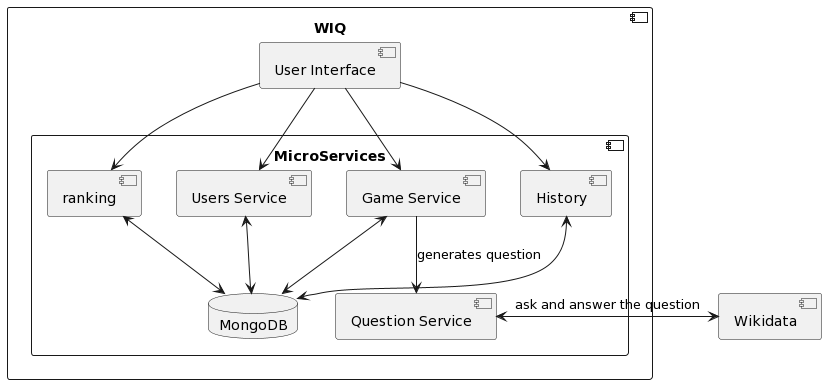
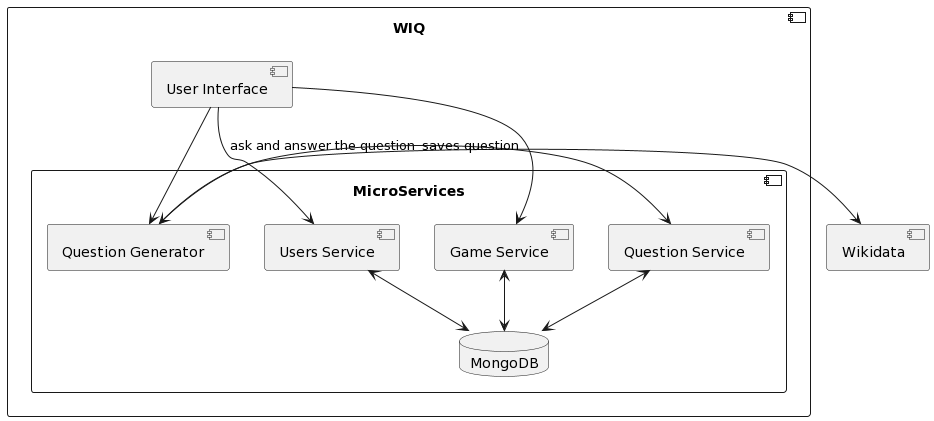
Updates

diff --git a/index.html b/index.html
@@ -4,7 +4,7 @@
 <meta charset="UTF-8">
 <meta http-equiv="X-UA-Compatible" content="IE=edge">
 <meta name="viewport" content="width=device-width, initial-scale=1.0">
-<meta name="generator" content="Asciidoctor 2.0.20">
+<meta name="generator" content="Asciidoctor 2.0.22">
 <title>Template</title>
 <link rel="stylesheet" href="https://fonts.googleapis.com/css?family=Open+Sans:300,300italic,400,400italic,600,600italic%7CNoto+Serif:400,400italic,700,700italic%7CDroid+Sans+Mono:400,700">
 <style>
@@ -140,7 +140,7 @@ p a>code:hover{color:rgba(0,0,0,.9)}
 #content::before{content:none}
 #header>h1:first-child{color:rgba(0,0,0,.85);margin-top:2.25rem;margin-bottom:0}
 #header>h1:first-child+#toc{margin-top:8px;border-top:1px solid #dddddf}
-#header>h1:only-child,body.toc2 #header>h1:nth-last-child(2){border-bottom:1px solid #dddddf;padding-bottom:8px}
+#header>h1:only-child{border-bottom:1px solid #dddddf;padding-bottom:8px}
 #header .details{border-bottom:1px solid #dddddf;line-height:1.45;padding-top:.25em;padding-bottom:.25em;padding-left:.25em;color:rgba(0,0,0,.6);display:flex;flex-flow:row wrap}
 #header .details span:first-child{margin-left:-.125em}
 #header .details span.email a{color:rgba(0,0,0,.85)}
@@ -162,6 +162,7 @@ p a>code:hover{color:rgba(0,0,0,.9)}
 #toctitle{color:#7a2518;font-size:1.2em}
 @media screen and (min-width:768px){#toctitle{font-size:1.375em}
 body.toc2{padding-left:15em;padding-right:0}
+body.toc2 #header>h1:nth-last-child(2){border-bottom:1px solid #dddddf;padding-bottom:8px}
 #toc.toc2{margin-top:0!important;background:#f8f8f7;position:fixed;width:15em;left:0;top:0;border-right:1px solid #e7e7e9;border-top-width:0!important;border-bottom-width:0!important;z-index:1000;padding:1.25em 1em;height:100%;overflow:auto}
 #toc.toc2 #toctitle{margin-top:0;margin-bottom:.8rem;font-size:1.2em}
 #toc.toc2>ul{font-size:.9em;margin-bottom:0}
@@ -327,7 +328,7 @@ a.image{text-decoration:none;display:inline-block}
 a.image object{pointer-events:none}
 sup.footnote,sup.footnoteref{font-size:.875em;position:static;vertical-align:super}
 sup.footnote a,sup.footnoteref a{text-decoration:none}
-sup.footnote a:active,sup.footnoteref a:active{text-decoration:underline}
+sup.footnote a:active,sup.footnoteref a:active,#footnotes .footnote a:first-of-type:active{text-decoration:underline}
 #footnotes{padding-top:.75em;padding-bottom:.75em;margin-bottom:.625em}
 #footnotes hr{width:20%;min-width:6.25em;margin:-.25em 0 .75em;border-width:1px 0 0}
 #footnotes .footnote{padding:0 .375em 0 .225em;line-height:1.3334;font-size:.875em;margin-left:1.2em;margin-bottom:.2em}
@@ -481,11 +482,10 @@ body.book #toc,body.book #preamble,body.book h1.sect0,body.book .sect1>h2{page-b
 <ul class="sectlevel2">
 <li><a href="#_login">6.1. Login</a></li>
 <li><a href="#_game">6.2. Game</a></li>
-<li><a href="#_ranking">6.3. Ranking</a></li>
-<li><a href="#_history">6.4. History</a></li>
+<li><a href="#_history">6.3. History</a></li>
 </ul>
 </li>
-<li><a href="#section-deployment-view">7. Deployment View</a>
+<li><a href="#_deployment_view">7. Deployment View</a>
 <ul class="sectlevel2">
 <li><a href="#_infrastructure_level_1">7.1. Infrastructure Level 1</a></li>
 <li><a href="#_motivation_6">7.2. Motivation:</a></li>
@@ -493,26 +493,35 @@ body.book #toc,body.book #preamble,body.book h1.sect0,body.book .sect1>h2{page-b
 <li><a href="#_mapping_of_building_blocks_to_infrastructure">7.4. Mapping of Building Blocks to Infrastructure::</a></li>
 </ul>
 </li>
-<li><a href="#section-concepts">8. Cross-cutting Concepts</a>
+<li><a href="#section-concepts">8. First Designs</a>
 <ul class="sectlevel2">
-<li><a href="#_domain_model">8.1. <em>Domain Model</em></a></li>
-<li><a href="#_security">8.2. <em>Security</em></a></li>
-<li><a href="#_privacy">8.3. <em>Privacy</em></a></li>
+<li><a href="#_home_page">8.1. Home Page</a></li>
+<li><a href="#_game_page">8.2. Game page</a></li>
 </ul>
 </li>
-<li><a href="#section-design-decisions">9. Architecture Decisions</a></li>
-<li><a href="#section-quality-scenarios">10. Quality Requirements</a>
+<li><a href="#_cross_cutting_concepts">9. Cross-cutting Concepts</a>
 <ul class="sectlevel2">
-<li><a href="#_quality_scenarios">10.1. Quality Scenarios</a></li>
+<li><a href="#_maintainability">9.1. Maintainability:</a></li>
+<li><a href="#_usability">9.2. Usability:</a></li>
+<li><a href="#_security">9.3. Security:</a></li>
+<li><a href="#_testing">9.4. Testing:</a></li>
+<li><a href="#_expansions">9.5. Expansions:</a></li>
+<li><a href="#_data_persistence_and_availability">9.6. Data persistence and availability:</a></li>
 </ul>
 </li>
-<li><a href="#section-technical-risks">11. Risks and Technical Debts</a>
+<li><a href="#section-design-decisions">10. Architecture Decisions</a></li>
+<li><a href="#section-quality-scenarios">11. Quality Requirements</a>
 <ul class="sectlevel2">
-<li><a href="#_risks">11.1. Risks</a></li>
-<li><a href="#_technical_debts">11.2. Technical debts</a></li>
+<li><a href="#_quality_scenarios">11.1. Quality Scenarios</a></li>
 </ul>
 </li>
-<li><a href="#section-glossary">12. Glossary</a></li>
+<li><a href="#section-technical-risks">12. Risks and Technical Debts</a>
+<ul class="sectlevel2">
+<li><a href="#_risks">12.1. Risks</a></li>
+<li><a href="#_technical_debts">12.2. Technical debts</a></li>
+</ul>
+</li>
+<li><a href="#section-glossary">13. Glossary</a></li>
 </ul>
 </div>
 </div>
@@ -1172,24 +1181,20 @@ The main constraints are developing the game as a web app and using Wikidata to 
 <td class="tableblock halign-left valign-top"><p class="tableblock">Game screen where the user can play the game.</p></td>
 </tr>
 <tr>
-<td class="tableblock halign-left valign-top"><p class="tableblock"><strong><em>Ranking</em></strong></p></td>
-<td class="tableblock halign-left valign-top"><p class="tableblock">It contains the best scores recorded in the game, including the user&#8217;s highest score and the scores of other users belonging to their group.</p></td>
-</tr>
-<tr>
-<td class="tableblock halign-left valign-top"><p class="tableblock"><strong><em>History</em></strong></p></td>
+<td class="tableblock halign-left valign-top"><p class="tableblock"><strong><em>Game Service</em></strong></p></td>
 <td class="tableblock halign-left valign-top"><p class="tableblock">Contains all user participations with the number of games played, correct/incorrect answers, and times.</p></td>
-</tr>
-<tr>
-<td class="tableblock halign-left valign-top"><p class="tableblock"><strong><em>About</em></strong></p></td>
-<td class="tableblock halign-left valign-top"><p class="tableblock">Contains important information about the project, like the development method, the developers and how to contact them.</p></td>
 </tr>
 <tr>
 <td class="tableblock halign-left valign-top"><p class="tableblock"><strong><em>Users Service</em></strong></p></td>
 <td class="tableblock halign-left valign-top"><p class="tableblock">Allows the client to create a new account for the application, log in and log out.</p></td>
 </tr>
 <tr>
-<td class="tableblock halign-left valign-top"><p class="tableblock"><strong><em>Question service</em></strong></p></td>
+<td class="tableblock halign-left valign-top"><p class="tableblock"><strong><em>Question Generator Service</em></strong></p></td>
 <td class="tableblock halign-left valign-top"><p class="tableblock">Allows to ask him questions and receive the answers of them.</p></td>
+</tr>
+<tr>
+<td class="tableblock halign-left valign-top"><p class="tableblock"><strong><em>Question Service</em></strong></p></td>
+<td class="tableblock halign-left valign-top"><p class="tableblock">Saves the questions.</p></td>
 </tr>
 </tbody>
 </table>
@@ -1215,7 +1220,7 @@ In case the login isn&#8217;t succesfully, a warning message is shown.</p>
 </div>
 <div class="imageblock">
 <div class="content">
-<img src="./images/sequencediagram-login.png" alt="sequencediagram login" width="509" height="508">
+<img src="./images/sequencediagram-login.png" alt="sequencediagram login" width="554" height="495">
 </div>
 </div>
 </div>
@@ -1226,36 +1231,12 @@ In case the login isn&#8217;t succesfully, a warning message is shown.</p>
 </div>
 <div class="imageblock">
 <div class="content">
-<img src="./images/sequencediagram-game.png" alt="sequencediagram game" width="632" height="612">
+<img src="./images/06_game.png" alt="Game">
 </div>
 </div>
 </div>
 <div class="sect2">
-<h3 id="_ranking">6.3. Ranking</h3>
-<div class="paragraph">
-<p>In this view, the user can watch different rankings:</p>
-</div>
-<div class="ulist">
-<ul>
-<li>
-<p>Ordered by accuracy percentage</p>
-</li>
-<li>
-<p>Ordered by number of questions answered correctly</p>
-</li>
-<li>
-<p>Ordered by quantity of game rounds</p>
-</li>
-</ul>
-</div>
-<div class="imageblock">
-<div class="content">
-<img src="./images/sequencediagram-ranking.png" alt="sequencediagram ranking" width="408" height="305">
-</div>
-</div>
-</div>
-<div class="sect2">
-<h3 id="_history">6.4. History</h3>
+<h3 id="_history">6.3. History</h3>
 <div class="paragraph">
 <p>In this view, the user can watch this options about his past games:</p>
 </div>
@@ -1274,7 +1255,7 @@ In case the login isn&#8217;t succesfully, a warning message is shown.</p>
 </div>
 <div class="imageblock">
 <div class="content">
-<img src="./images/sequencediagram-history.png" alt="sequencediagram history" width="362" height="305">
+<img src="./images/sequencediagram-history.png" alt="sequencediagram history" width="390" height="297">
 </div>
 </div>
 <div style="page-break-after: always;"></div>
@@ -1282,13 +1263,13 @@ In case the login isn&#8217;t succesfully, a warning message is shown.</p>
 </div>
 </div>
 <div class="sect1">
-<h2 id="section-deployment-view">7. Deployment View</h2>
+<h2 id="_deployment_view">7. Deployment View</h2>
 <div class="sectionbody">
 <div class="sect2">
 <h3 id="_infrastructure_level_1">7.1. Infrastructure Level 1</h3>
 <div class="imageblock text-center">
 <div class="content">
-<a class="image" href=""Diag_Comp.jpg"><img src="./images/Diag_Comp.jpg" alt="Diag Comp"></a>
+<img src="./images/deployment_diagram.svg" alt="deployment diagram">
 </div>
 <div class="title">Figure 1. Deployment Diagram</div>
 </div>
@@ -1296,13 +1277,14 @@ In case the login isn&#8217;t succesfully, a warning message is shown.</p>
 <div class="sect2">
 <h3 id="_motivation_6">7.2. Motivation:</h3>
 <div class="paragraph">
-<p>The system is based in microservices architecture with three independent services, each responsible for a specific aspect of the functionality. One service is the Graphic interface, this service handles the presentation layer of a web application. Another service is tasked with managing user-related functionalities. MongoDB, a NoSQL database, is used to store and manage user data efficiently. The third service utilizes Wikidata, a free open base, to automatically generate questions.</p>
+<p>The system is based on a microservices architecture with six independent services, each responsible for a specific aspect of functionality. One service is the graphical interface (WebApp), which is responsible for the presentation layer of a web application. The user service is responsible for managing user-related functionalities, while the auth service is responsible for authenticating users. The question generation service uses Wikidata, a free and open database, to generate questions automatically. Finally, the question service allows to save and retrieve information from the generated questions and the game service does the same for game-related data and statistics. MongoDB, a NoSQL database, is used to store the information.</p>
 </div>
 </div>
 <div class="sect2">
 <h3 id="_quality_andor_performance_features">7.3. Quality and/or Performance Features::</h3>
 <div class="paragraph">
-<p>The main reason we have chosen a microservices architecture is to achieve a fast and efficient application.. The availability and efficiency of the application will be affected by Wikidata&#8217;s availability, but just in the question generation moment.</p>
+<p>The main reason we have chosen a microservices architecture is to achieve a fast and efficient application, while allowing changes to be made to certain parts of the application without the need to bring it to a complete halt. The application is deployed in an Azure virtual machine and each of the application components is in a separate container thanks to the use of Docker.
+The availability and efficiency of the application will be affected by the availability of Wikidata, but only at the time of question generation.</p>
 </div>
 </div>
 <div class="sect2">
@@ -1332,7 +1314,7 @@ In case the login isn&#8217;t succesfully, a warning message is shown.</p>
 <td class="tableblock halign-left valign-top"><p class="tableblock"> <em>The API that comunicates the rest of the microservices with the graphical interface.</em></p></td>
 </tr>
 <tr>
-<td class="tableblock halign-left valign-top"><p class="tableblock"><em>Question_Generator</em></p></td>
+<td class="tableblock halign-left valign-top"><p class="tableblock"><em>Question generation service</em></p></td>
 <td class="tableblock halign-left valign-top"><p class="tableblock"> <em>The microservice responsible for generating questions through Wikidata.</em></p></td>
 </tr>
 <tr>
@@ -1340,8 +1322,20 @@ In case the login isn&#8217;t succesfully, a warning message is shown.</p>
 <td class="tableblock halign-left valign-top"><p class="tableblock"> <em>The Wikidata API that allows us to access its information.</em></p></td>
 </tr>
 <tr>
-<td class="tableblock halign-left valign-top"><p class="tableblock"><em>Users</em></p></td>
+<td class="tableblock halign-left valign-top"><p class="tableblock"><em>Question service</em></p></td>
+<td class="tableblock halign-left valign-top"><p class="tableblock"><em>The microservice responsible for saving and getting information about the questions.</em></p></td>
+</tr>
+<tr>
+<td class="tableblock halign-left valign-top"><p class="tableblock"><em>Game service</em></p></td>
+<td class="tableblock halign-left valign-top"><p class="tableblock"><em>The microservice responsible for saving and getting information about the games.</em></p></td>
+</tr>
+<tr>
+<td class="tableblock halign-left valign-top"><p class="tableblock"><em>User service</em></p></td>
 <td class="tableblock halign-left valign-top"><p class="tableblock"> <em>The microservice responsible for managing users.</em></p></td>
+</tr>
+<tr>
+<td class="tableblock halign-left valign-top"><p class="tableblock"><em>Auth service</em></p></td>
+<td class="tableblock halign-left valign-top"><p class="tableblock"> <em>The microservice responsible for managing the authentication of the users.</em></p></td>
 </tr>
 <tr>
 <td class="tableblock halign-left valign-top"><p class="tableblock"><em>MongoDB</em></p></td>
@@ -1354,31 +1348,76 @@ In case the login isn&#8217;t succesfully, a warning message is shown.</p>
 </div>
 </div>
 <div class="sect1">
-<h2 id="section-concepts">8. Cross-cutting Concepts</h2>
+<h2 id="section-concepts">8. First Designs</h2>
 <div class="sectionbody">
 <div class="sect2">
-<h3 id="_domain_model">8.1. <em>Domain Model</em></h3>
+<h3 id="_home_page">8.1. Home Page</h3>
+<div class="imageblock">
+<div class="content">
+<img src="./images/HomeView.png" alt="Home Menu View">
+</div>
+</div>
+<hr>
+</div>
+<div class="sect2">
+<h3 id="_game_page">8.2. Game page</h3>
+<div class="imageblock">
+<div class="content">
+<img src="./images/GameView.png" alt="Game View">
+</div>
+</div>
+<hr>
+</div>
+</div>
+</div>
+<div class="sect1">
+<h2 id="_cross_cutting_concepts">9. Cross-cutting Concepts</h2>
+<div class="sectionbody">
+<div class="sect2">
+<h3 id="_maintainability">9.1. Maintainability:</h3>
 <div class="paragraph">
-<p><em>TBD</em></p>
+<p>We designed the application in a modular way to facilitate its maintenance and task division.
+We separated functions for reuse in different parts of the code, such as React components.</p>
 </div>
 </div>
 <div class="sect2">
-<h3 id="_security">8.2. <em>Security</em></h3>
+<h3 id="_usability">9.2. Usability:</h3>
 <div class="paragraph">
-<p><em>The communication between the application&#8217;s APIs will be through the secure mode of HTTP.</em></p>
+<p>We researched user needs to design a simple and intuitive interface.
+We employed a user-centered approach and followed recommended usability guidelines such as font size, interface colors, etc.</p>
 </div>
 </div>
 <div class="sect2">
-<h3 id="_privacy">8.3. <em>Privacy</em></h3>
+<h3 id="_security">9.3. Security:</h3>
 <div class="paragraph">
-<p><em>The user&#8217;s data will be stored in a MongoDb database. That implies that the information is stored securely.</em></p>
+<p>We store only essential information with user passwords encrypted for security.
+Unregistered users will not be able to access others' information.</p>
+</div>
+</div>
+<div class="sect2">
+<h3 id="_testing">9.4. Testing:</h3>
+<div class="paragraph">
+<p>Usability and functionality tests are conducted to gather feedback and create the best possible product.</p>
+</div>
+</div>
+<div class="sect2">
+<h3 id="_expansions">9.5. Expansions:</h3>
+<div class="paragraph">
+<p>Various expansions to the application are proposed, such as a multiplayer version or adaptability to mobile devices.</p>
+</div>
+</div>
+<div class="sect2">
+<h3 id="_data_persistence_and_availability">9.6. Data persistence and availability:</h3>
+<div class="paragraph">
+<p>Application data is stored using MongoDB, one of the most commonly used NoSQL databases.
+The application can be deployed at any time locally or in an environment such as a virtual machine.</p>
 </div>
 <div style="page-break-after: always;"></div>
 </div>
 </div>
 </div>
 <div class="sect1">
-<h2 id="section-design-decisions">9. Architecture Decisions</h2>
+<h2 id="section-design-decisions">10. Architecture Decisions</h2>
 <div class="sectionbody">
 <table class="tableblock frame-all grid-all stretch">
 <colgroup>
@@ -1414,7 +1453,7 @@ In case the login isn&#8217;t succesfully, a warning message is shown.</p>
 </div>
 </div>
 <div class="sect1">
-<h2 id="section-quality-scenarios">10. Quality Requirements</h2>
+<h2 id="section-quality-scenarios">11. Quality Requirements</h2>
 <div class="sectionbody">
 <div class="imageblock">
 <div class="content">
@@ -1423,7 +1462,7 @@ In case the login isn&#8217;t succesfully, a warning message is shown.</p>
 <div class="title">Figure 2. Quality Tree</div>
 </div>
 <div class="sect2">
-<h3 id="_quality_scenarios">10.1. Quality Scenarios</h3>
+<h3 id="_quality_scenarios">11.1. Quality Scenarios</h3>
 <div class="ulist">
 <ul>
 <li>
@@ -1495,10 +1534,10 @@ In case the login isn&#8217;t succesfully, a warning message is shown.</p>
 </div>
 </div>
 <div class="sect1">
-<h2 id="section-technical-risks">11. Risks and Technical Debts</h2>
+<h2 id="section-technical-risks">12. Risks and Technical Debts</h2>
 <div class="sectionbody">
 <div class="sect2">
-<h3 id="_risks">11.1. Risks</h3>
+<h3 id="_risks">12.1. Risks</h3>
 <table class="tableblock frame-all grid-all stretch">
 <colgroup>
 <col style="width: 33.3333%;">
@@ -1531,7 +1570,7 @@ In case the login isn&#8217;t succesfully, a warning message is shown.</p>
 </table>
 </div>
 <div class="sect2">
-<h3 id="_technical_debts">11.2. Technical debts</h3>
+<h3 id="_technical_debts">12.2. Technical debts</h3>
 <table class="tableblock frame-all grid-all stretch">
 <colgroup>
 <col style="width: 33.3333%;">
@@ -1555,7 +1594,7 @@ In case the login isn&#8217;t succesfully, a warning message is shown.</p>
 </div>
 </div>
 <div class="sect1">
-<h2 id="section-glossary">12. Glossary</h2>
+<h2 id="section-glossary">13. Glossary</h2>
 <div class="sectionbody">
 <table class="tableblock frame-all grid-all stretch">
 <colgroup>
@@ -1597,7 +1636,7 @@ In case the login isn&#8217;t succesfully, a warning message is shown.</p>
 <div id="footer">
 <div id="footer-text">
 Version 8.2 EN<br>
-Last updated 2024-02-05 09:04:22 +0100
+Last updated 2024-04-07 12:34:40 +0200
 </div>
 </div>
 </body>
